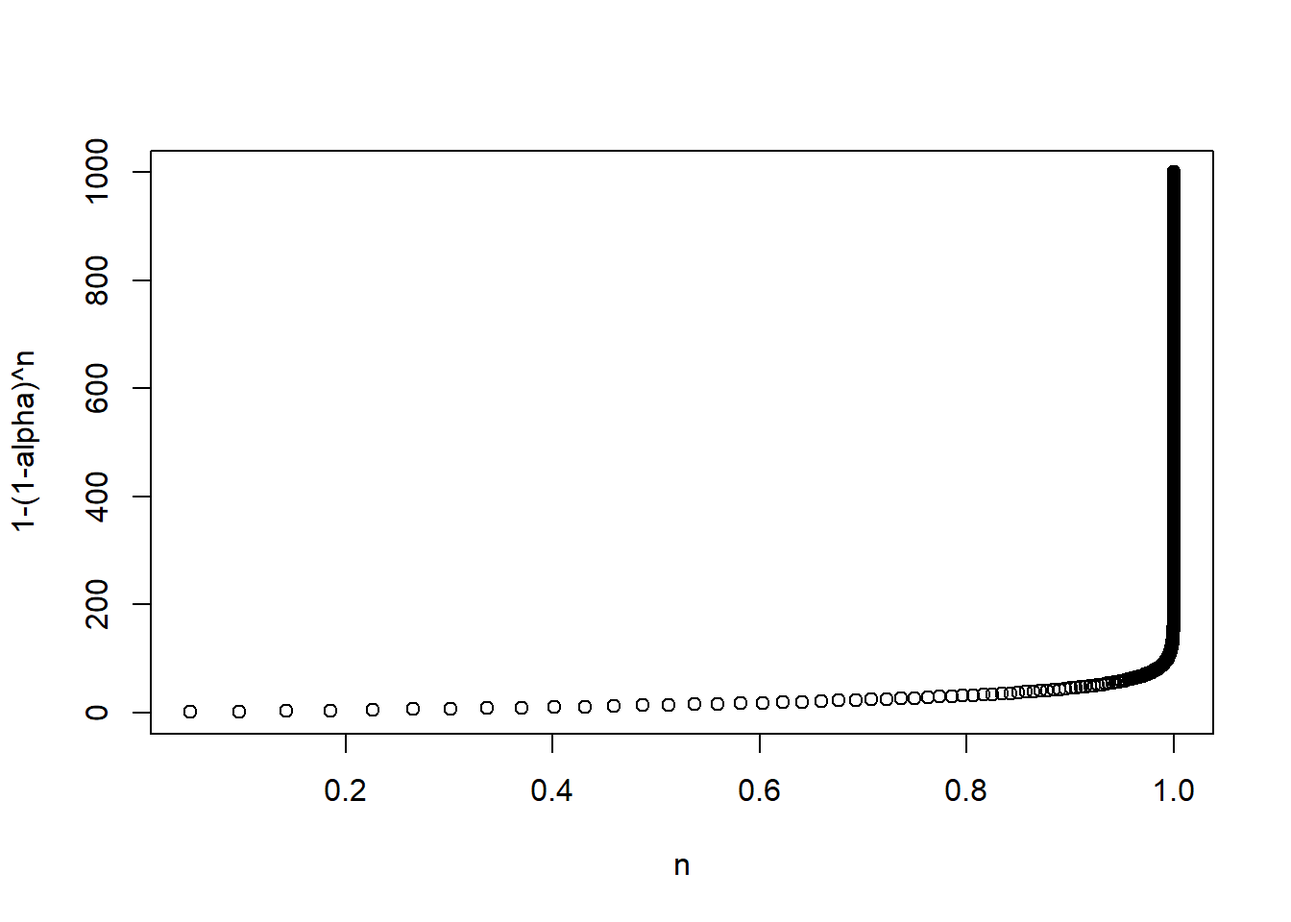
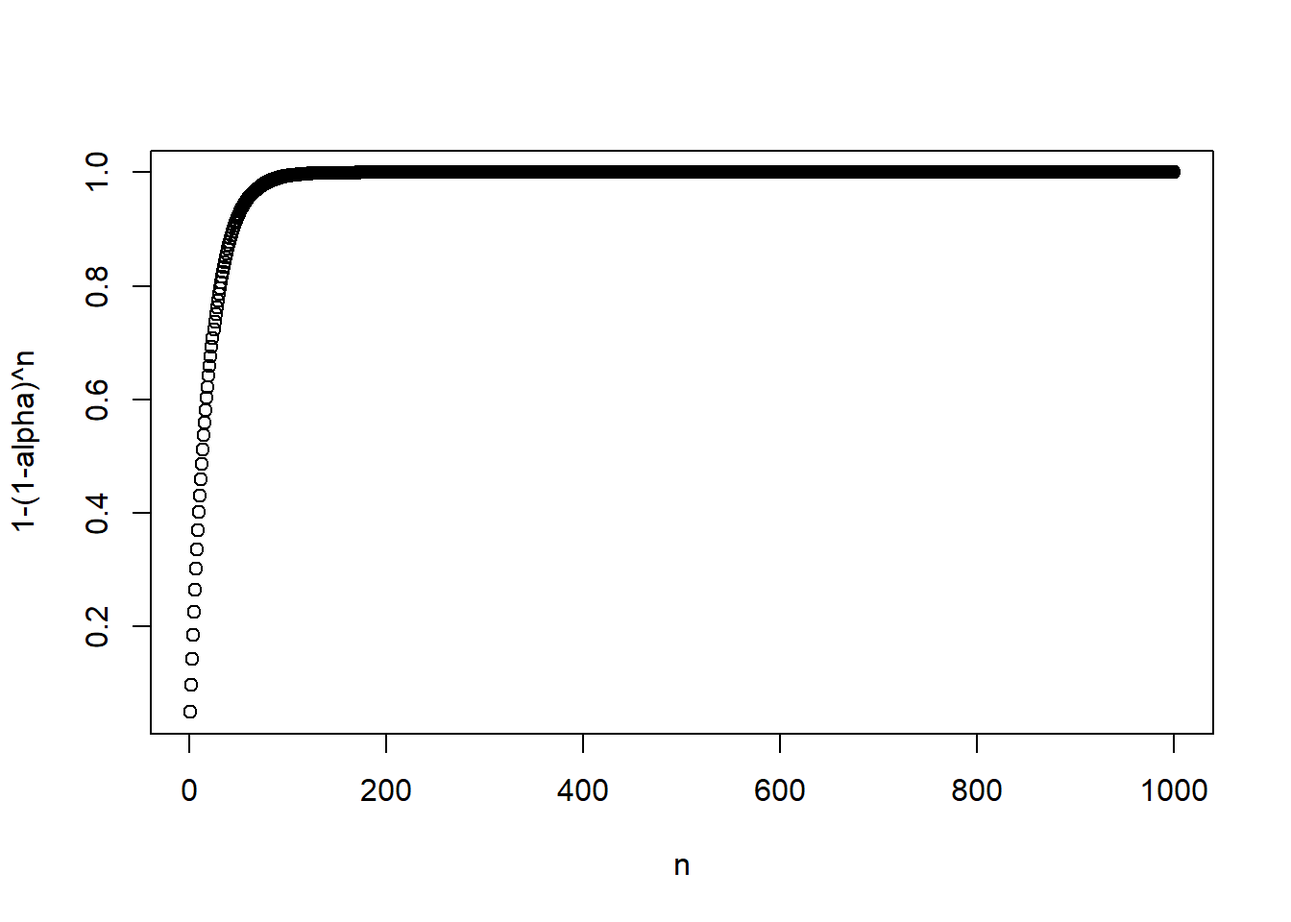
Built site for gh-pages

diff --git a/notas/múltiples-hipótesis.html b/notas/múltiples-hipótesis.html
@@ -491,17 +491,17 @@ window.Quarto = {
 <section id="el-problema-de-probar-múltiples-hipótesis" class="level1">
 <h1>El problema de probar múltiples hipótesis</h1>
 <p>En el contexto de evaluación, cometemos el <strong>error tipo I</strong> al concluir que hay un efecto de tratamiento cuando la <span class="math inline">\(H_0\)</span> es verdadera, es decir, cuando <span class="math inline">\(H_0:\;\beta_i=0\)</span>. En una investigación fijamos <span class="math inline">\(\alpha\)</span>, la probabilidad de rechazar <span class="math inline">\(H_0\)</span> cuando <span class="math inline">\(H_0\)</span> es cierta. Por ejemplo, en economía trabajamos con <span class="math inline">\(\alpha=0.05\)</span> o <span class="math inline">\(\alpha=0.01\)</span>.</p>
-<p>El problema con probar múltiples hipótesis es que inflamos la tasa de error tipo I. Por ejemplo, si tenemos 100 hipótesis y si usamos un valor estándar de <span class="math inline">\(\alpha=0.05\)</span>, esperaríamos rechazar 5 hipótesis <em>por suerte</em>.</p>
+<p>El problema con probar múltiples hipótesis es que inflamos la tasa de error tipo I. Por ejemplo, si tenemos 100 hipótesis en las que la <span class="math inline">\(H_0\)</span> es cierta y si usamos un valor estándar de <span class="math inline">\(\alpha=0.05\)</span>, esperaríamos rechazar 5 hipótesis <em>por suerte</em>.</p>
 <p>Si realizamos una prueba, la probabilidad de cometer un error es <span class="math inline">\(\alpha\)</span> y la de no cometer un error es <span class="math inline">\(1-\alpha\)</span>.</p>
 <p>Si realizamos <span class="math inline">\(n\)</span> pruebas, la probabilidad de no cometer un error es <span class="math inline">\((1-\alpha)^n\)</span> y la probabilidad de cometer al menos un error es <span class="math inline">\(1-(1-\alpha)^n\)</span>.</p>
-<p>Es decir, la probabilidad de cometer al menos un error se incrementa exponencialmente.</p>
+<p>Es decir, la probabilidad de cometer al menos un error crece rápidamente y se acerca a 1.</p>
 <p>Veamos esto gráficamente:</p>
 <div class="cell">
 <div class="code-copy-outer-scaffold"><div class="sourceCode cell-code" id="cb1"><pre class="sourceCode r code-with-copy"><code class="sourceCode r"><span id="cb1-1"><a href="#cb1-1" aria-hidden="true" tabindex="-1"></a>alpha<span class="ot">=</span><span class="fl">0.05</span></span>
 <span id="cb1-2"><a href="#cb1-2" aria-hidden="true" tabindex="-1"></a>n <span class="ot">&lt;-</span> <span class="dv">1</span><span class="sc">:</span><span class="dv">1000</span></span>
 <span id="cb1-3"><a href="#cb1-3" aria-hidden="true" tabindex="-1"></a>p <span class="ot">&lt;-</span> <span class="dv">1</span><span class="sc">-</span>(<span class="dv">1</span><span class="sc">-</span>alpha)<span class="sc">^</span>n</span>
 <span id="cb1-4"><a href="#cb1-4" aria-hidden="true" tabindex="-1"></a></span>
-<span id="cb1-5"><a href="#cb1-5" aria-hidden="true" tabindex="-1"></a><span class="fu">plot</span>(p,n, <span class="at">xlab=</span><span class="st">"n"</span>, <span class="at">ylab=</span><span class="st">"1-(1-alpha)^n"</span>)</span></code></pre></div><button title="Copiar al portapapeles" class="code-copy-button"><i class="bi"></i></button></div>
+<span id="cb1-5"><a href="#cb1-5" aria-hidden="true" tabindex="-1"></a><span class="fu">plot</span>(n,p, <span class="at">xlab=</span><span class="st">"n"</span>, <span class="at">ylab=</span><span class="st">"1-(1-alpha)^n"</span>)</span></code></pre></div><button title="Copiar al portapapeles" class="code-copy-button"><i class="bi"></i></button></div>
 <div class="cell-output-display">
 <div>
 <figure class="figure">
@@ -517,38 +517,40 @@ window.Quarto = {
 </ul>
 <section id="control-del-error-tipo-i" class="level2">
 <h2 class="anchored" data-anchor-id="control-del-error-tipo-i">Control del error tipo I</h2>
-<p>Siguiendo a Popper (1995), definimos <em>familias</em> de variables y haremos el ajuste <em>hacia adentro</em> de estas familias. Por ejemplo, en el artículo que estudiamos de Banerjee et al.&nbsp;(2015), las familias son:</p>
+<p>Siguiendo a Shaffer (1995), definimos <em>familias</em> de variables y haremos el ajuste <em>hacia adentro</em> de estas familias. Por ejemplo, en el artículo que estudiamos de Banerjee et al.&nbsp;(2015), las familias son:</p>
 <ul>
 <li>Seguridad alimentaria</li>
 <li>Consumo</li>
 <li>Activos</li>
 <li>Salud mental</li>
 </ul>
-<p>Dentro de cada familia tenemos <span class="math inline">\(n\)</span> hipótesis <span class="math inline">\(H_i\)</span>, con un valor <span class="math inline">\(p\)</span> asociado <span class="math inline">\(p_i\)</span>. Recordemos que <span class="math inline">\(p_i\)</span> es la probabilidad de que el estadístico <span class="math inline">\(T_i\)</span> exceda el valor teórico <span class="math inline">\(t_i\)</span>. Ordenemos las hipótesis de menor a mayor,con <span class="math inline">\(p_1\)</span> siendo el valor más pequeño: <span class="math inline">\(p_1\leq p_2\ldots \leq p_n\)</span>.</p>
+<p>Dentro de cada familia tenemos <span class="math inline">\(n\)</span> hipótesis <span class="math inline">\(H_i\)</span>, con un valor <span class="math inline">\(p\)</span> asociado <span class="math inline">\(p_i\)</span>. Recordemos que <span class="math inline">\(p_i\)</span> se define como la probabilidad de observar un estadístico al menos tan extremo como el observado, bajo la <span class="math inline">\(H_0\)</span>. Ordenemos las hipótesis de menor a mayor, con <span class="math inline">\(p_1\)</span> siendo el valor más pequeño: <span class="math inline">\(p_1\leq p_2\ldots \leq p_n\)</span>.</p>
 <section id="método-de-bonferroni" class="level3">
 <h3 class="anchored" data-anchor-id="método-de-bonferroni">Método de Bonferroni</h3>
-<p>El método propuesto por Bonferroni controla la <strong>tasa de error por familia</strong> (FEWR por <em>family-wise error rate</em>) definida como la probabilidad de cometer al menos un error tipo I.</p>
+<p>El método propuesto por Bonferroni controla la <strong>tasa de error por familia</strong> (FWER por <em>family-wise error rate</em>) definida como la probabilidad de cometer al menos un error tipo I.</p>
 <p>Este método consiste en rechazar <span class="math inline">\(H_i\)</span> si <span class="math inline">\(p_i\leq \alpha_i\)</span>, donde <span class="math inline">\(\alpha_i\)</span> se escoge de forma que <span class="math inline">\(\sum_i\alpha_i=\alpha\)</span>. Usualmente se hace <span class="math inline">\(\alpha_i=\frac{\alpha}{n}\)</span>.</p>
-<p>Por ejemplo, con dos tests y <span class="math inline">\(\alpha=0.05\)</span>, <span class="math inline">\(\alpha_i^B=0.025\)</span>.</p>
+<p>Por ejemplo, con dos pruebas y <span class="math inline">\(\alpha=0.05\)</span>, <span class="math inline">\(\alpha_i^B=0.025\)</span>.</p>
 <p>Noten que esta corrección es bastante conservadora.</p>
-<p>Alternativamente, podemos ver esta correción como crear unos valores <span class="math inline">\(p^B\)</span> ajustados: <span class="math inline">\(p_i^B=p_i\times n\)</span>.</p>
+<p>De forma equivalente, podemos ver este método como crear unos valores <span class="math inline">\(p^B\)</span> ajustados: <span class="math inline">\(p_i^B=\min(p_i\times n,1)\)</span>.</p>
 <p>¿Por qué preocuparnos por la FWER?</p>
 <p>La idea de la FWER tiene sentido si nos preocupa tener incluso un solo falso positivo. En la práctica, podemos vivir con algunos falsos positivos.</p>
 </section>
 <section id="método-de-benjamini-y-hochberg" class="level3">
 <h3 class="anchored" data-anchor-id="método-de-benjamini-y-hochberg">Método de Benjamini y Hochberg</h3>
-<p>Este método controla la tasa de falso descubrimiento. Si <span class="math inline">\(V\)</span> es el número de falsos rechazos (cuando rechazamos la <span class="math inline">\(H_0\)</span> que es verdadera) y si <span class="math inline">\(R\)</span> es el número total de rechazos, entonces <span class="math inline">\(Q=V/R\)</span> es la proporción de falsos rechazos.</p>
-<p>Al valor esperado de <span class="math inline">\(Q\)</span> se le conoce como <strong>tasa de falsos rechazos</strong> (FDR por <em>false discovery rate</em>).</p>
+<p>Este método controla la tasa de falso descubrimiento. Si <span class="math inline">\(V\)</span> es el número de falsos rechazos (cuando rechazamos la <span class="math inline">\(H_0\)</span> que es verdadera) y si <span class="math inline">\(R\)</span> es el número total de rechazos, entonces <span class="math inline">\(Q=V/R\)</span> es la proporción de falsos rechazos (por convención <span class="math inline">\(Q=0\)</span> si <span class="math inline">\(R=0\)</span>).</p>
+<p>Al valor esperado de <span class="math inline">\(Q\)</span> se le conoce como <strong>tasa de falso descubrimiento</strong> (FDR por <em>false discovery rate</em>).</p>
 <p>Sea <span class="math inline">\(k\)</span> el más grande de los <span class="math inline">\(i\)</span> tal que</p>
-<p><span class="math display">\[p_i\leq\frac{i}{n}\alpha\]</span> entonces la corrección consiste en rechazar todos los <span class="math inline">\(H_i\)</span> para <span class="math inline">\(i=1,2,\ldots,k\)</span>. En la práctica usamos R</p>
+<p><span class="math display">\[p_i\leq\frac{i}{n}\alpha\]</span> entonces la corrección consiste en rechazar todos los <span class="math inline">\(H_i\)</span> para <span class="math inline">\(i=1,2,\ldots,k\)</span>.</p>
+<p>Noten que esto <strong>no</strong> es lo mismo que comparar cada <span class="math inline">\(p_i\)</span> contra su propio umbral: una vez encontrado <span class="math inline">\(k\)</span>, se rechazan <em>todas</em> las hipótesis hasta <span class="math inline">\(k\)</span>, aunque alguna intermedia no cumpla la desigualdad.</p>
+<p>En la práctica usamos algún software para programar algoritmos o funciones ya definidas.</p>
 </section>
 <section id="ejemplo-benjamini-hochberg-1995" class="level3">
 <h3 class="anchored" data-anchor-id="ejemplo-benjamini-hochberg-1995">Ejemplo: Benjamini &amp; Hochberg (1995)</h3>
-<p>Usemos los <a href="../files/data_benjamini_hochberg.csv">datos del artículo</a> de Benjamini &amp; Hochberg (1995), que tienen 15 hipótesis y trabajan con <span class="math inline">\(\alpha=0.05\)</span>:</p>
+<p>Usemos los <a href="../files/data_benjamini_hochberg.csv">datos del artículo</a> de Benjamini &amp; Hochberg (1995), que tienen 15 hipótesis (ya ordenadas) y trabajan con <span class="math inline">\(\alpha=0.05\)</span>:</p>
 <div class="cell">
 <div class="code-copy-outer-scaffold"><div class="sourceCode cell-code" id="cb2"><pre class="sourceCode r code-with-copy"><code class="sourceCode r"><span id="cb2-1"><a href="#cb2-1" aria-hidden="true" tabindex="-1"></a>data.pvalues<span class="ot">&lt;-</span><span class="fu">read_csv</span>(<span class="st">"../files/data_benjamini_hochberg.csv"</span>,</span>
-<span id="cb2-2"><a href="#cb2-2" aria-hidden="true" tabindex="-1"></a>                       <span class="at">locale =</span> <span class="fu">locale</span>(<span class="at">encoding =</span> <span class="st">"latin1"</span>))  </span>
-<span id="cb2-3"><a href="#cb2-3" aria-hidden="true" tabindex="-1"></a>n <span class="ot">&lt;-</span> <span class="dv">15</span></span>
+<span id="cb2-2"><a href="#cb2-2" aria-hidden="true" tabindex="-1"></a>                       <span class="at">locale =</span> <span class="fu">locale</span>(<span class="at">encoding =</span> <span class="st">"latin1"</span>))</span>
+<span id="cb2-3"><a href="#cb2-3" aria-hidden="true" tabindex="-1"></a>n <span class="ot">&lt;-</span> <span class="fu">nrow</span>(data.pvalues)</span>
 <span id="cb2-4"><a href="#cb2-4" aria-hidden="true" tabindex="-1"></a>alpha <span class="ot">&lt;-</span> <span class="fl">0.05</span></span>
 <span id="cb2-5"><a href="#cb2-5" aria-hidden="true" tabindex="-1"></a></span>
 <span id="cb2-6"><a href="#cb2-6" aria-hidden="true" tabindex="-1"></a>data.pvalues</span></code></pre></div><button title="Copiar al portapapeles" class="code-copy-button"><i class="bi"></i></button></div>
@@ -573,16 +575,16 @@ window.Quarto = {
 15    1             15</code></pre>
 </div>
 </div>
-<p>Si hacemos la correción de Bonferroni:</p>
+<p>Si hacemos la corrección de Bonferroni:</p>
 <div class="cell">
-<div class="code-copy-outer-scaffold"><div class="sourceCode cell-code" id="cb4"><pre class="sourceCode r code-with-copy"><code class="sourceCode r"><span id="cb4-1"><a href="#cb4-1" aria-hidden="true" tabindex="-1"></a>data.bonferroni <span class="ot">&lt;-</span> data.pvalues <span class="sc">%&gt;%</span> </span>
-<span id="cb4-2"><a href="#cb4-2" aria-hidden="true" tabindex="-1"></a>  <span class="fu">mutate</span>(<span class="at">bonferroni_alpha=</span>alpha<span class="sc">/</span>n) <span class="sc">%&gt;%</span> </span>
-<span id="cb4-3"><a href="#cb4-3" aria-hidden="true" tabindex="-1"></a>  <span class="fu">mutate</span>(<span class="at">bonferrini_rechazar=</span><span class="fu">ifelse</span>(poriginal<span class="sc">&lt;=</span>bonferroni_alpha,<span class="dv">1</span>,<span class="dv">0</span>))</span>
+<div class="code-copy-outer-scaffold"><div class="sourceCode cell-code" id="cb4"><pre class="sourceCode r code-with-copy"><code class="sourceCode r"><span id="cb4-1"><a href="#cb4-1" aria-hidden="true" tabindex="-1"></a>data.bonferroni <span class="ot">&lt;-</span> data.pvalues <span class="sc">%&gt;%</span></span>
+<span id="cb4-2"><a href="#cb4-2" aria-hidden="true" tabindex="-1"></a>  <span class="fu">mutate</span>(<span class="at">bonferroni_alpha=</span>alpha<span class="sc">/</span>n) <span class="sc">%&gt;%</span></span>
+<span id="cb4-3"><a href="#cb4-3" aria-hidden="true" tabindex="-1"></a>  <span class="fu">mutate</span>(<span class="at">bonferroni_rechazar=</span><span class="fu">ifelse</span>(poriginal<span class="sc">&lt;=</span>bonferroni_alpha,<span class="dv">1</span>,<span class="dv">0</span>))</span>
 <span id="cb4-4"><a href="#cb4-4" aria-hidden="true" tabindex="-1"></a></span>
 <span id="cb4-5"><a href="#cb4-5" aria-hidden="true" tabindex="-1"></a>data.bonferroni</span></code></pre></div><button title="Copiar al portapapeles" class="code-copy-button"><i class="bi"></i></button></div>
 <div class="cell-output cell-output-stdout">
 <pre><code># A tibble: 15 × 4
-   poriginal hipotesis bonferroni_alpha bonferrini_rechazar
+   poriginal hipotesis bonferroni_alpha bonferroni_rechazar
        &lt;dbl&gt;     &lt;dbl&gt;            &lt;dbl&gt;               &lt;dbl&gt;
  1    0.0001         1          0.00333                   1
  2    0.0004         2          0.00333                   1
@@ -601,57 +603,106 @@ window.Quarto = {
 15    1             15          0.00333                   0</code></pre>
 </div>
 </div>
-<p>Pero si ahora hacemos la de Benjamini &amp; Hochberg</p>
+<p>Pero si ahora hacemos la de Benjamini &amp; Hochberg:</p>
 <div class="cell">
-<div class="code-copy-outer-scaffold"><div class="sourceCode cell-code" id="cb6"><pre class="sourceCode r code-with-copy"><code class="sourceCode r"><span id="cb6-1"><a href="#cb6-1" aria-hidden="true" tabindex="-1"></a>data.bh <span class="ot">&lt;-</span> data.pvalues <span class="sc">%&gt;%</span> </span>
-<span id="cb6-2"><a href="#cb6-2" aria-hidden="true" tabindex="-1"></a>  <span class="fu">mutate</span>(<span class="at">bh_alpha=</span>alpha<span class="sc">*</span>hipotesis<span class="sc">/</span>n) <span class="sc">%&gt;%</span> </span>
-<span id="cb6-3"><a href="#cb6-3" aria-hidden="true" tabindex="-1"></a>  <span class="fu">mutate</span>(<span class="at">bh_rechazar=</span><span class="fu">ifelse</span>(poriginal<span class="sc">&lt;=</span>bh_alpha,<span class="dv">1</span>,<span class="dv">0</span>))</span>
-<span id="cb6-4"><a href="#cb6-4" aria-hidden="true" tabindex="-1"></a></span>
-<span id="cb6-5"><a href="#cb6-5" aria-hidden="true" tabindex="-1"></a>data.bh</span></code></pre></div><button title="Copiar al portapapeles" class="code-copy-button"><i class="bi"></i></button></div>
+<div class="code-copy-outer-scaffold"><div class="sourceCode cell-code" id="cb6"><pre class="sourceCode r code-with-copy"><code class="sourceCode r"><span id="cb6-1"><a href="#cb6-1" aria-hidden="true" tabindex="-1"></a>data.bh <span class="ot">&lt;-</span> data.pvalues <span class="sc">%&gt;%</span></span>
+<span id="cb6-2"><a href="#cb6-2" aria-hidden="true" tabindex="-1"></a>  <span class="fu">mutate</span>(<span class="at">bh_alpha    =</span> alpha<span class="sc">*</span>hipotesis<span class="sc">/</span>n,</span>
+<span id="cb6-3"><a href="#cb6-3" aria-hidden="true" tabindex="-1"></a>         <span class="at">cumple      =</span> poriginal <span class="sc">&lt;=</span> bh_alpha,</span>
+<span id="cb6-4"><a href="#cb6-4" aria-hidden="true" tabindex="-1"></a>         <span class="at">k           =</span> <span class="fu">max</span>(hipotesis[cumple]),</span>
+<span id="cb6-5"><a href="#cb6-5" aria-hidden="true" tabindex="-1"></a>         <span class="at">bh_rechazar =</span> <span class="fu">ifelse</span>(hipotesis <span class="sc">&lt;=</span> k, <span class="dv">1</span>, <span class="dv">0</span>))</span>
+<span id="cb6-6"><a href="#cb6-6" aria-hidden="true" tabindex="-1"></a></span>
+<span id="cb6-7"><a href="#cb6-7" aria-hidden="true" tabindex="-1"></a>data.bh</span></code></pre></div><button title="Copiar al portapapeles" class="code-copy-button"><i class="bi"></i></button></div>
 <div class="cell-output cell-output-stdout">
-<pre><code># A tibble: 15 × 4
-   poriginal hipotesis bh_alpha bh_rechazar
-       &lt;dbl&gt;     &lt;dbl&gt;    &lt;dbl&gt;       &lt;dbl&gt;
- 1    0.0001         1  0.00333           1
- 2    0.0004         2  0.00667           1
- 3    0.0019         3  0.01              1
- 4    0.0095         4  0.0133            1
- 5    0.0201         5  0.0167            0
- 6    0.0278         6  0.02              0
- 7    0.0298         7  0.0233            0
- 8    0.0344         8  0.0267            0
- 9    0.0459         9  0.03              0
-10    0.324         10  0.0333            0
-11    0.426         11  0.0367            0
-12    0.572         12  0.04              0
-13    0.653         13  0.0433            0
-14    0.759         14  0.0467            0
-15    1             15  0.05              0</code></pre>
+<pre><code># A tibble: 15 × 6
+   poriginal hipotesis bh_alpha cumple     k bh_rechazar
+       &lt;dbl&gt;     &lt;dbl&gt;    &lt;dbl&gt; &lt;lgl&gt;  &lt;dbl&gt;       &lt;dbl&gt;
+ 1    0.0001         1  0.00333 TRUE       4           1
+ 2    0.0004         2  0.00667 TRUE       4           1
+ 3    0.0019         3  0.01    TRUE       4           1
+ 4    0.0095         4  0.0133  TRUE       4           1
+ 5    0.0201         5  0.0167  FALSE      4           0
+ 6    0.0278         6  0.02    FALSE      4           0
+ 7    0.0298         7  0.0233  FALSE      4           0
+ 8    0.0344         8  0.0267  FALSE      4           0
+ 9    0.0459         9  0.03    FALSE      4           0
+10    0.324         10  0.0333  FALSE      4           0
+11    0.426         11  0.0367  FALSE      4           0
+12    0.572         12  0.04    FALSE      4           0
+13    0.653         13  0.0433  FALSE      4           0
+14    0.759         14  0.0467  FALSE      4           0
+15    1             15  0.05    FALSE      4           0</code></pre>
 </div>
 </div>
+<p>La columna <code>k</code> sale constante porque <span class="math inline">\(k\)</span> es un solo número para toda la familia. Con estos datos <code>cumple</code> y <code>bh_rechazar</code> coinciden, pero no tienen por qué hacerlo: si alguna hipótesis intermedia no cumpliera la desigualdad, de todas formas se rechazaría por estar antes de <span class="math inline">\(k\)</span>.</p>
+<p>Bonferroni rechaza tres hipótesis y Benjamini &amp; Hochberg rechaza cuatro.</p>
+</section>
+<section id="los-mismos-resultados-con-p.adjust" class="level3">
+<h3 class="anchored" data-anchor-id="los-mismos-resultados-con-p.adjust">Los mismos resultados con <code>p.adjust</code></h3>
+<p>En lugar de comparar cada <span class="math inline">\(p_i\)</span> contra su umbral, <code>p.adjust</code> devuelve los valores <span class="math inline">\(p\)</span> <strong>ajustados</strong>, que comparamos contra <span class="math inline">\(\alpha\)</span>:</p>
+<div class="cell">
+<div class="code-copy-outer-scaffold"><div class="sourceCode cell-code" id="cb8"><pre class="sourceCode r code-with-copy"><code class="sourceCode r"><span id="cb8-1"><a href="#cb8-1" aria-hidden="true" tabindex="-1"></a>data.ajustados <span class="ot">&lt;-</span> data.pvalues <span class="sc">%&gt;%</span></span>
+<span id="cb8-2"><a href="#cb8-2" aria-hidden="true" tabindex="-1"></a>  <span class="fu">mutate</span>(<span class="at">p_bonferroni    =</span> <span class="fu">p.adjust</span>(poriginal, <span class="st">"bonferroni"</span>),</span>
+<span id="cb8-3"><a href="#cb8-3" aria-hidden="true" tabindex="-1"></a>         <span class="at">p_bh            =</span> <span class="fu">p.adjust</span>(poriginal, <span class="st">"BH"</span>),</span>
+<span id="cb8-4"><a href="#cb8-4" aria-hidden="true" tabindex="-1"></a>         <span class="at">rech_bonferroni =</span> <span class="fu">ifelse</span>(p_bonferroni <span class="sc">&lt;=</span> alpha, <span class="dv">1</span>, <span class="dv">0</span>),</span>
+<span id="cb8-5"><a href="#cb8-5" aria-hidden="true" tabindex="-1"></a>         <span class="at">rech_bh         =</span> <span class="fu">ifelse</span>(p_bh         <span class="sc">&lt;=</span> alpha, <span class="dv">1</span>, <span class="dv">0</span>))</span>
+<span id="cb8-6"><a href="#cb8-6" aria-hidden="true" tabindex="-1"></a></span>
+<span id="cb8-7"><a href="#cb8-7" aria-hidden="true" tabindex="-1"></a>data.ajustados</span></code></pre></div><button title="Copiar al portapapeles" class="code-copy-button"><i class="bi"></i></button></div>
+<div class="cell-output cell-output-stdout">
+<pre><code># A tibble: 15 × 6
+   poriginal hipotesis p_bonferroni   p_bh rech_bonferroni rech_bh
+       &lt;dbl&gt;     &lt;dbl&gt;        &lt;dbl&gt;  &lt;dbl&gt;           &lt;dbl&gt;   &lt;dbl&gt;
+ 1    0.0001         1       0.0015 0.0015               1       1
+ 2    0.0004         2       0.006  0.003                1       1
+ 3    0.0019         3       0.0285 0.0095               1       1
+ 4    0.0095         4       0.142  0.0356               0       1
+ 5    0.0201         5       0.302  0.0603               0       0
+ 6    0.0278         6       0.417  0.0639               0       0
+ 7    0.0298         7       0.447  0.0639               0       0
+ 8    0.0344         8       0.516  0.0645               0       0
+ 9    0.0459         9       0.688  0.0765               0       0
+10    0.324         10       1      0.486                0       0
+11    0.426         11       1      0.581                0       0
+12    0.572         12       1      0.715                0       0
+13    0.653         13       1      0.753                0       0
+14    0.759         14       1      0.813                0       0
+15    1             15       1      1                    0       0</code></pre>
+</div>
+</div>
+<p>Se obtienen exactamente las mismas conclusiones que calculando los umbrales a mano.</p>
 </section>
 </section>
 <section id="creación-de-índices" class="level2">
 <h2 class="anchored" data-anchor-id="creación-de-índices">Creación de índices</h2>
-<p>Otra forma comúnmente usada de evitar el problema de las múltiples hipótesis es crear índices. Kling, Liebmand y Katz (2007) proponen el siguiente promedio de los <span class="math inline">\(z\)</span>-score para generar un solo índice. Para ello, se sigue el siguiente procedimiento:</p>
+<section id="índice-de-kling-liebman-y-katz" class="level3">
+<h3 class="anchored" data-anchor-id="índice-de-kling-liebman-y-katz">Índice de Kling, Liebman y Katz</h3>
+<p>Otra forma comúnmente usada de evitar el problema de las múltiples hipótesis es crear índices. Kling, Liebman y Katz (2007) proponen el siguiente promedio de los <span class="math inline">\(z\)</span>-score para generar un solo índice. Para ello, se sigue el siguiente procedimiento:</p>
 <ol type="1">
-<li><p>Definir las familias y las variables que componen cada familia, donde <span class="math inline">\(y_{ij}\)</span> es la <span class="math inline">\(j\)</span>ésima variable en la familia con <span class="math inline">\(J\)</span> variables.</p></li>
-<li><p>Definir las varibles <span class="math inline">\(y_{ij}\)</span> de tal forma que mayores valores se interpreten como <em>mejora</em>.</p></li>
-<li><p>Crear <span class="math inline">\(z_{ij}\)</span> como <span class="math inline">\(z_{ij}=\frac{y_{ij}-\bar{y_j}^C}{sd(y_j)^C}\sim(0,1)\)</span>, es decir, estandarizar cada una de las <span class="math inline">\(J\)</span> variables usando al grupo de control como referencia.</p></li>
-<li><p>Crear <span class="math inline">\(z_i\)</span>, un solo índice para cada individuo que agregue los <span class="math inline">\(J\)</span> índices creados antes</p></li>
+<li><p>Definir las familias y las variables o indicadores que componen cada familia, donde <span class="math inline">\(y_{ij}\)</span> es la <span class="math inline">\(j\)</span>-ésima variable en la familia con <span class="math inline">\(J\)</span> variables.</p></li>
+<li><p>Definir las variables <span class="math inline">\(y_{ij}\)</span> de tal forma que mayores valores se interpreten como <em>mejora</em>.</p></li>
+<li><p>Crear <span class="math inline">\(z_{ij}\)</span> como <span class="math inline">\(z_{ij}=\frac{y_{ij}-\bar{y}_j^C}{sd(y_j)^C}\sim(0,1)\)</span>, es decir, estandarizar cada una de las <span class="math inline">\(J\)</span> variables usando al grupo de control como referencia, de modo que en ese grupo tenga media 0 y varianza 1.</p></li>
+<li><p>Crear <span class="math inline">\(z_i\)</span>, un solo índice para cada individuo que agregue los <span class="math inline">\(J\)</span> <span class="math inline">\(z\)</span>-<em>scores</em> creados antes.</p></li>
 </ol>
 <p>El procedimiento descrito en Banerjee et al.&nbsp;(2015) es bastante general, pues incluye el caso donde hay varias rondas de seguimiento y varios países.</p>
 <p>Podemos escribir el índice descrito como:</p>
-<p><span class="math display">\[z_i=\frac{(\frac{1}{J}\sum_j z_{ij})-\bar{z}_j^C}{sd(z_j^C)}\]</span></p>
+<p><span class="math display">\[z_i=\frac{\bar{z}_i-\overline{\bar{z}}^C}{sd(\bar{z}^C)}\]</span></p>
+<p>donde <span class="math inline">\(\bar{z}_i=\frac{1}{J}\sum_{j=1}^{J} z_{ij}\)</span> y <span class="math inline">\(\overline{\bar{z}}^C\)</span> y <span class="math inline">\(sd(\bar{z}^C)\)</span> son la media y la desviación estándar de <span class="math inline">\(\bar{z}_i\)</span> en el grupo de control.</p>
+<p>Es importante notar que la reestandarización se hace sobre el <strong>promedio</strong> <span class="math inline">\(\bar{z}_i\)</span>, no sobre cada <span class="math inline">\(z_{ij}\)</span>. Cada <span class="math inline">\(z_{ij}\)</span> ya tiene media 0 y desviación estándar 1 en el control por construcción, así que estandarizarlos otra vez no haría nada. El promedio, en cambio, tiene desviación estándar menor que 1, y cuánto menor depende de las correlaciones entre las variables de la familia.</p>
 <p>Esta transformación tiene la ventaja de que en la siguiente regresión de efecto de tratamiento</p>
-<p><span class="math display">\[z_i=\alpha+\beta T_i + X_i'\gamma+\varepsilon_i\]</span></p>
-<p>el coeficiente <span class="math inline">\(\beta\)</span> se interpreta como el efecto del tratamiento medido en desviaciones estándar con respecto a la media del grupo de control.</p>
-<p>Noten que todos las variables dentro de la familia <em>pesan</em> igual. Quizás nos gustaría tomar en cuenta la correlación entre las variables dentro del índice</p>
+<p><span class="math display">\[z_i=\phi+\beta T_i + X_i'\gamma+\varepsilon_i\]</span></p>
+<p>el coeficiente <span class="math inline">\(\beta\)</span> se interpreta como el efecto del tratamiento expresado en desviaciones estándar del grupo de control (<span class="math inline">\(\beta=0.2\)</span> significa que el tratamiento mueve el índice 0.2 desviaciones estándar).</p>
+<p>Noten que todas las variables dentro de la familia <em>pesan</em> igual. Quizás nos gustaría tomar en cuenta la correlación entre las variables dentro del índice.</p>
+</section>
 <section id="índice-de-anderson" class="level3">
 <h3 class="anchored" data-anchor-id="índice-de-anderson">Índice de Anderson</h3>
 <p><a href="https://are.berkeley.edu/~mlanderson/pdf/Anderson%202008a.pdf">Anderson (2008)</a> propone el siguiente índice, que puede verse como una generalización del de Kling:</p>
-<p><span class="math display">\[\bar{s}_i=\frac{1}{W_{i}}\sum_{j\in J} w_j z_{ij}\]</span></p>
-<p>En este índice, <span class="math inline">\(w_j\)</span> es el peso para la variable <span class="math inline">\(j\)</span> y <span class="math inline">\(W_i=\sum_{j\in J}w_{j}\)</span>. Los pesos son una función de la matriz de covarianzas entre las variables que conforman la familia. Diversos software ya incluyen funciones para obtener los índices de Anderson (2008).</p>
+<p><span class="math display">\[\bar{s}_i=\frac{1}{W_{i}}\sum_{j\in J_i} w_{j} z_{ij}\]</span></p>
+<p>donde <span class="math inline">\(w_{j}\)</span> es el peso para la variable o indicador <span class="math inline">\(j\)</span> y <span class="math inline">\(W_i=\sum_{j\in J_i}w_{j}\)</span>, con <span class="math inline">\(J_i\)</span> el conjunto de variables observadas para el individuo <span class="math inline">\(i\)</span>.</p>
+<p>En este índice, <span class="math inline">\(w_{j}\)</span> es la suma de la <span class="math inline">\(j\)</span>-ésima fila de <span class="math inline">\(\Sigma^{-1}\)</span>, la inversa de la matriz de covarianzas de <span class="math inline">\(z_{ij}\)</span>. Esto lo hace más eficiente que el índice de Kling, al otorgar menor peso a las variables más correlacionadas entre sí: las variables poco correlacionadas aportan información nueva y por eso pesan más.</p>
+<p>Además usa toda la información disponible, pues las variables faltantes simplemente se ignoran y los pesos restantes se renormalizan, de modo que las variables con menos valores faltantes terminan pesando más. En la práctica, <span class="math inline">\(\bar{s}_i\)</span> puede estandarizarse con respecto al grupo de control para facilitar su interpretación.</p>
+<p>Anderson (2008) muestra que podemos calcular <span class="math inline">\(\bar{s}_i\)</span> como:</p>
+<p><span class="math display">\[\bar{s}_i=(\mathbf{1}'\Sigma^{-1}\mathbf{1})^{-1}(\mathbf{1}'\Sigma^{-1}\mathbf{z}_{i})\]</span></p>
+<p>donde <span class="math inline">\(\mathbf{1}\)</span> es un vector columna de unos y <span class="math inline">\(\mathbf{z}_i\)</span> es un vector columna de las variables estandarizadas de <span class="math inline">\(i\)</span>. Esta expresión funciona cuando no hay valores faltantes, pero es también fácil extender el resultado cuando sí los hay.</p>
+<p>Diversos software ya incluyen funciones para obtener los índices de Anderson (2008).</p>
 
 
 </section>
